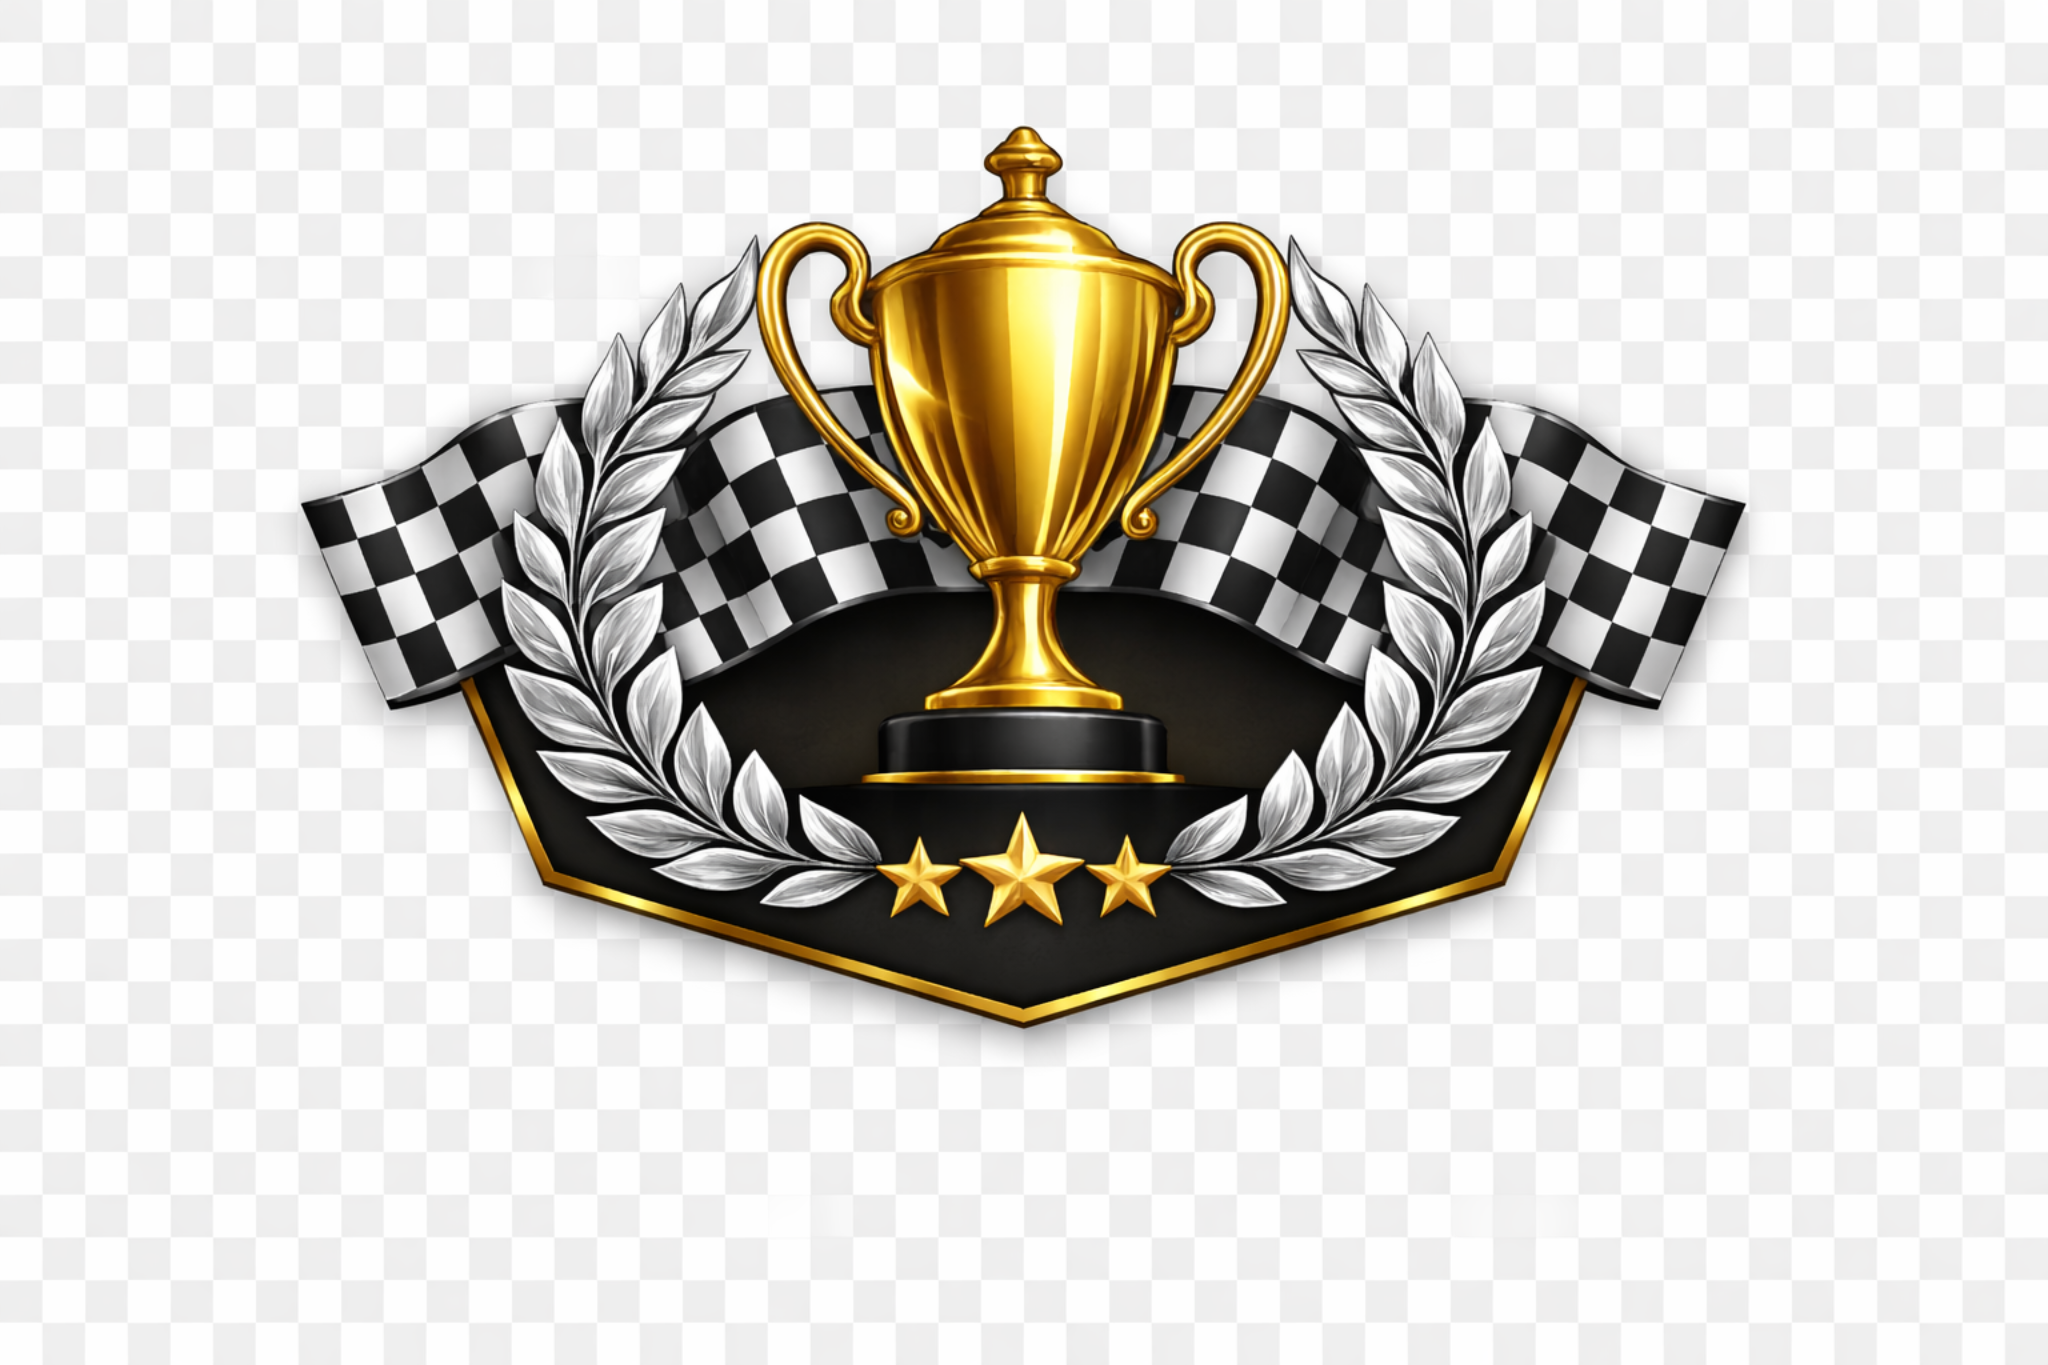
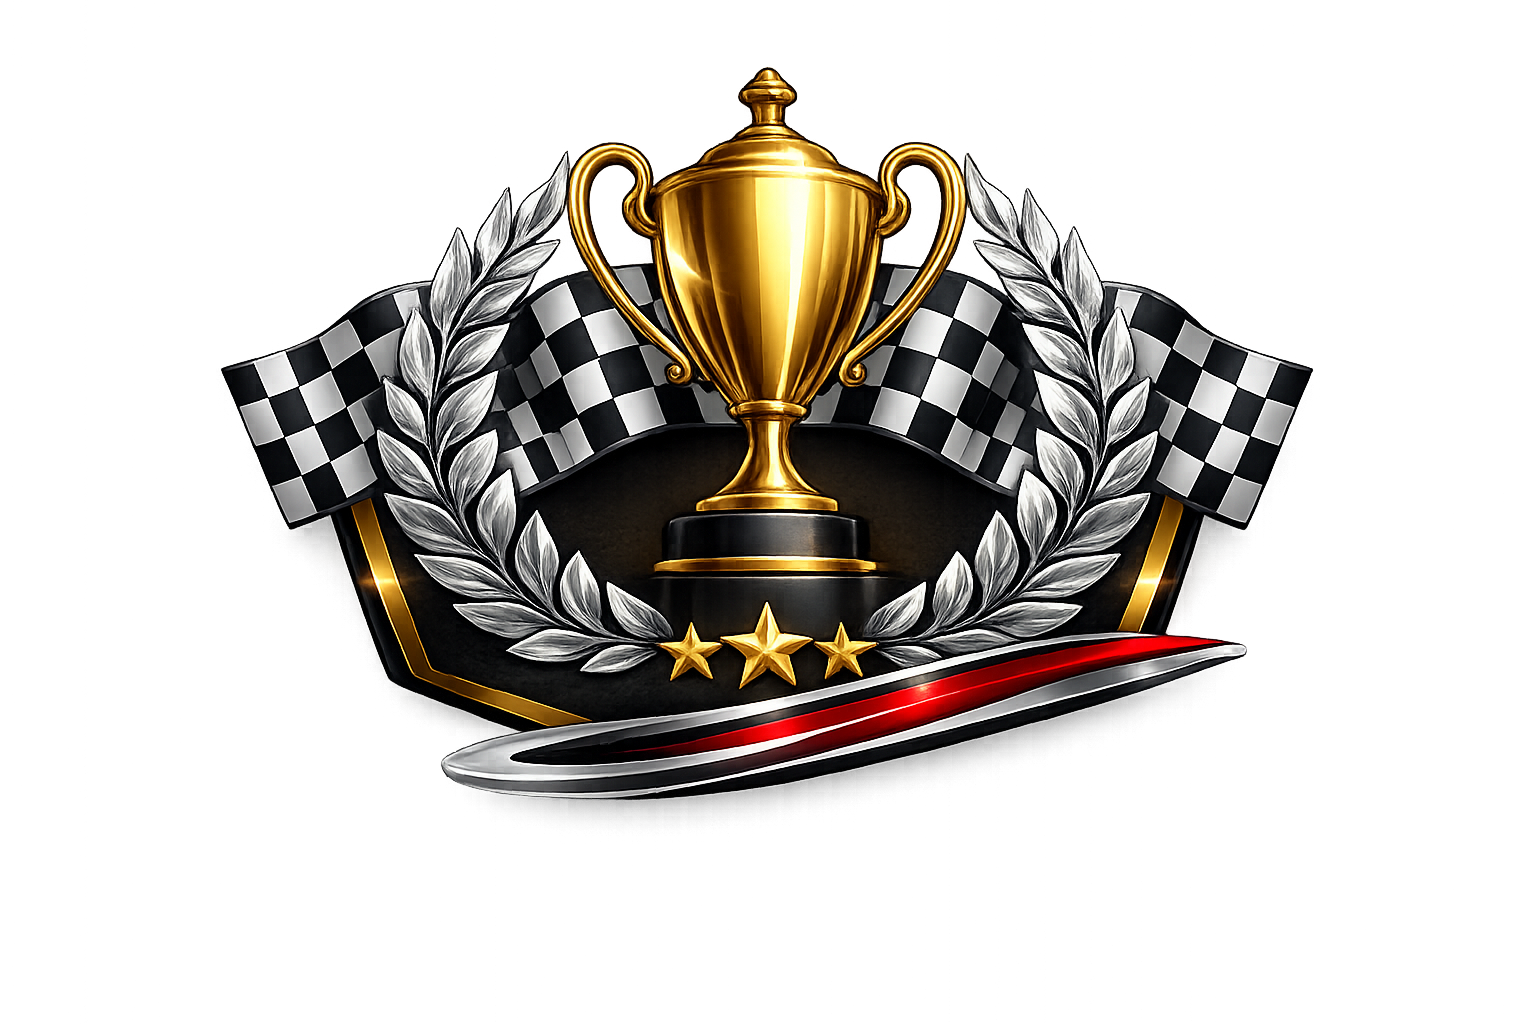
Add files via upload

Changed region(s): [[0.125, 0.0625, 0.875, 0.8125]]

diff --git a/assets/js/pages/standings.js b/assets/js/pages/standings.js
@@ -1,22 +1,34 @@
 
-function applyDriverPointsOverride(standings) {
+function getDriverBasePoints(entry) {
   const override = window.RCC_STANDINGS_OVERRIDE?.driverPoints;
-  if (!override) return standings;
-  return standings
+  if (!override) return 0;
+  return Number.isFinite(override[entry.driverName])
+    ? override[entry.driverName]
+    : (override[entry.driverName?.split(' / ')[0]?.trim()] ?? 0);
+}
+
+function getTeamBasePoints(entry) {
+  const override = window.RCC_STANDINGS_OVERRIDE?.teamPoints;
+  if (!override) return 0;
+  return Number.isFinite(override[entry.teamName]) ? override[entry.teamName] : 0;
+}
+
+function mergeCorrectedDriverStandings(baseStandings, incrementalStandings) {
+  const incrementalById = new Map((incrementalStandings || []).map((entry) => [entry.driverId, entry]));
+  return (baseStandings || [])
     .map((entry) => ({
       ...entry,
-      points: Number.isFinite(override[entry.driverName]) ? override[entry.driverName] : (override[entry.driverName?.split(' / ')[0]?.trim()] ?? entry.points)
+      points: getDriverBasePoints(entry) + (incrementalById.get(entry.driverId)?.points || 0)
     }))
     .sort((a, b) => b.points - a.points || a.driverName.localeCompare(b.driverName, 'de'));
 }
 
-function applyTeamPointsOverride(standings) {
-  const override = window.RCC_STANDINGS_OVERRIDE?.teamPoints;
-  if (!override) return standings;
-  return standings
+function mergeCorrectedTeamStandings(baseStandings, incrementalStandings) {
+  const incrementalByTeam = new Map((incrementalStandings || []).map((entry) => [entry.teamName, entry]));
+  return (baseStandings || [])
     .map((entry) => ({
       ...entry,
-      points: Number.isFinite(override[entry.teamName]) ? override[entry.teamName] : entry.points
+      points: getTeamBasePoints(entry) + (incrementalByTeam.get(entry.teamName)?.points || 0)
     }))
     .sort((a, b) => b.points - a.points || a.teamName.localeCompare(b.teamName, 'de'));
 }
@@ -95,8 +107,8 @@ function renderTeamStandings(standings) {
 function updateStandingsMeta(currentSeason, driverCount, teamCount) {
   const subtitles = document.querySelectorAll('.page-subtitle');
   const seasonLabel = currentSeason?.name ? `Saison ${currentSeason.name}` : 'Alle verfügbaren Daten';
-  if (subtitles[0]) subtitles[0].textContent = `${seasonLabel} · automatische Wertung aus den veröffentlichten Rennergebnissen.`;
-  if (subtitles[1]) subtitles[1].textContent = `${seasonLabel} · automatische Wertung aus den veröffentlichten Rennergebnissen.`;
+  if (subtitles[0]) subtitles[0].textContent = `${seasonLabel} · automatische Wertung aus korrigiertem Saisonstand der laufenden Saison + neuen veröffentlichten Rennergebnissen.`;
+  if (subtitles[1]) subtitles[1].textContent = `${seasonLabel} · automatische Wertung aus korrigiertem Saisonstand der laufenden Saison + neuen veröffentlichten Rennergebnissen.`;
 
   const tableHeaders = document.querySelectorAll('.table-header .muted');
   if (tableHeaders[0]) tableHeaders[0].textContent = `${driverCount} Fahrer`;
@@ -115,13 +127,25 @@ async function loadStandingsPage() {
 
     const completedRaces = races.filter((race) => race.status === 'completed').sort((a, b) => a.round_number - b.round_number);
     const resolver = window.RCCDriverContext.createAssignmentResolver({ drivers, races, assignments });
-    const currentStandings = window.RCCData.buildStandings({ drivers, races, raceResults, resolver });
+
+    const fullStandings = window.RCCData.buildStandings({ drivers, races, raceResults, resolver });
+    const overriddenRaceNames = new Set(window.RCC_STATIC_RESULTS_14?.races || []);
+    const incrementalRaces = completedRaces.filter((race) => !overriddenRaceNames.has(race.grand_prix_name));
+    const incrementalStandings = window.RCCData.buildStandings({ drivers, races: incrementalRaces, raceResults, resolver });
+
     const previousRaces = completedRaces.slice(0, -1);
-    const previousStandings = window.RCCData.buildStandings({ drivers, races: previousRaces, raceResults, resolver });
+    const previousIncrementalRaces = previousRaces.filter((race) => !overriddenRaceNames.has(race.grand_prix_name));
+    const previousBaseStandings = window.RCCData.buildStandings({ drivers, races: previousRaces, raceResults, resolver });
+    const previousIncrementalStandings = window.RCCData.buildStandings({ drivers, races: previousIncrementalRaces, raceResults, resolver });
 
     const hasPreviousRace = previousRaces.length > 0;
-    const driverStandings = withDriverTrends(applyDriverPointsOverride(currentStandings.driverStandings), previousStandings.driverStandings, hasPreviousRace);
-    const teamStandings = withTeamTrends(applyTeamPointsOverride(currentStandings.teamStandings), previousStandings.teamStandings, hasPreviousRace);
+    const correctedCurrentDrivers = mergeCorrectedDriverStandings(fullStandings.driverStandings, incrementalStandings.driverStandings);
+    const correctedPreviousDrivers = mergeCorrectedDriverStandings(previousBaseStandings.driverStandings, previousIncrementalStandings.driverStandings);
+    const correctedCurrentTeams = mergeCorrectedTeamStandings(fullStandings.teamStandings, incrementalStandings.teamStandings);
+    const correctedPreviousTeams = mergeCorrectedTeamStandings(previousBaseStandings.teamStandings, previousIncrementalStandings.teamStandings);
+
+    const driverStandings = withDriverTrends(correctedCurrentDrivers, correctedPreviousDrivers, hasPreviousRace);
+    const teamStandings = withTeamTrends(correctedCurrentTeams, correctedPreviousTeams, hasPreviousRace);
     renderDriverStandings(driverStandings);
     renderTeamStandings(teamStandings);
     updateStandingsMeta(currentSeason, driverStandings.length, teamStandings.length);

diff --git a/assets/js/data/results-override-season14.js b/assets/js/data/results-override-season14.js
@@ -1,0 +1,27 @@
+window.RCC_STATIC_RESULTS_14 = {
+  seasonKey: "season14",
+  seasonLabel: 'Saison 14',
+  races: ['Kanada','Katar','Monza','Japan','Spanien','Saudi Arabien','Niederlande','Bahrain','Austin','Monaco','Brasilien','Ungarn','Belgien','Mexico'],
+  rows: [
+    { driver: 'Jannick / Airfle_x', points: [15,4,12,0,13,8,0,5,0,0,0,2,0,0], classes: ['', '', '', '', 'player', '', '', 'player', 'bot', 'bot', 'bot', 'bot', 'bot', 'bot'] },
+    { driver: 'Tom / Delled_Rel', points: [0,0,6,6,2,7,10,0,2,8,0,0,0,0], classes: ['', '', '', '', '', 'player', '', '', 'bot', 'bot', '', '', '', ''] },
+    { driver: 'Philipp / Monst3rowhite', points: [0,8,2,2,25,4,12,18,10,18,4,0,12,0], classes: ['bot', '', '', '', '', '', '', '', 'bot', 'bot', '', '', '', ''] },
+    { driver: 'Basti / BxBeast^^', points: [0,0,0,0,0,2,0,0,4,0,0,0,0,0], classes: ['bot','','','', 'bot','bot','','','','','bot','bot','bot','bot'] },
+    { driver: 'Lewis Hamilton', points: [1,0,0,1,0,0,1,0,8,15,0,0,0,1], classes: ['bot','','','bot','','','bot','','','', '', '', '', ''] },
+    { driver: 'Charles Leclerc', points: [0,0,0,0,0,0,0,0,0,10,0,0,0,0], classes: ['bot','','','','','','','','','','','','',''] },
+    { driver: 'Diogo / zocker-tidi', points: [0,0,1,4,8,1,0,0,0,0,0,0,0,0], classes: ['bot','bot','', '', 'bot','bot','bot','bot','bot','bot','bot','bot','bot','bot'] },
+    { driver: 'Dennis / Social_Abyss', points: [6,6,11,8,6,10,18,6,0,3,2,12,2,2], classes: ['', '', 'player', '', '', '', '', '', '', 'player', '', '', '', ''] },
+    { driver: 'Davide / Ratcher7575', points: [10,15,25,18,15,18,8,8,0,0,8,4,1,10], classes: ['', '', '', '', '', '', '', '', '', '', '', '', '', ''] },
+    { driver: 'Franco Colapinto', points: [0,2,4,0,0,0,0,0,0,4,0,0,0,0], classes: ['', '', '', '', '', '', '', '', '', '', '', '', '', ''] },
+    { driver: 'Tizi / ICExTizi', points: [0,0,0,0,0,0,0,0,1,0,0,0,10,26], classes: ['bot','bot','bot','bot','bot','bot','bot','bot','bot','bot','bot','bot','', 'player'] },
+    { driver: 'Robin / brixx71', points: [2,0,0,0,0,0,2,0,0,1,0,0,15,4], classes: ['bot','','','bot','','','bot','','bot','','','','',''] },
+    { driver: 'Richard / Gxdly_21', points: [18,13,0,25,10,25,0,15,15,0,15,6,25,12], classes: ['', 'player', '', '', '', '', 'player', '', '', '', '', '', '', ''] },
+    { driver: 'Nils / xXYouGetCarrydXx', points: [26,10,18,12,18,15,4,10,13,12,25,10,4,15], classes: ['player', '', '', '', '', '', '', '', 'player', '', '', '', '', ''] },
+    { driver: 'Alessandro / Ale23andr0_', points: [8,25,8,16,0,0,15,12,18,0,13,25,0,0], classes: ['', '', '', 'player', 'bot', 'bot', '', '', '', '', 'player', '', 'player', ''] },
+    { driver: 'Mo / My-tires-r-gone', points: [12,18,15,10,4,12,25,25,25,25,18,18,8,8], classes: ['', '', '', '', '', '', '', '', '', '', '', '', '', ''] },
+    { driver: 'Maxim / TERMINATOR', points: [0,1,0,0,1,0,6,1,0,6,0,1,0,0], classes: ['bot','bot','bot','bot','','','', '', 'bot','bot','','', '', ''] },
+    { driver: 'Jakob / Ja_KOB', points: [4,0,0,0,0,0,0,2,6,0,1,0,0,0], classes: ['bot','bot','','','','','','','','','', '', '', ''] },
+    { driver: 'Aaron / Fabiyoloboi', points: [0,0,0,0,0,0,0,0,0,0,6,8,6,6], classes: ['bot','bot','bot','bot','bot','bot','bot','bot','bot','bot','','','',''] },
+    { driver: 'Adnan / Bigarlz', points: [0,0,0,0,0,0,0,0,0,0,10,16,18,18], classes: ['bot','bot','bot','bot','bot','bot','bot','bot','bot','bot','','player','',''] }
+  ]
+};

diff --git a/assets/js/pages/results.js b/assets/js/pages/results.js
@@ -1,7 +1,7 @@
 let trendChartInstance = null;
 
 function renderStaticResultsOverride() {
-  const data = window.RCC_STATIC_RESULTS_15;
+  const data = window.RCC_STATIC_RESULTS_14;
   if (!data) return false;
   const wrap = document.getElementById('results-matrix-wrap');
   const labelEl = document.getElementById('results-matrix-label');
@@ -24,12 +24,10 @@ function renderStaticResultsOverride() {
     const cells = row.points.map((value, index) => {
       const tone = row.classes?.[index] || '';
       const classes = ['results-points-cell'];
-      const chips = [];
       const valueClasses = ['results-points-value'];
       if (tone === 'bot') valueClasses.push('results-points-value--bot');
       if (tone === 'player') valueClasses.push('results-points-value--fl-chip');
-      if (tone === 'player') chips.push('<span class="results-cell-chip results-cell-chip--fl">FL</span>');
-      return `<td class="${classes.join(' ')}"><div class="results-cell-stack"><span class="${valueClasses.join(' ')}">${value}</span>${chips.length ? `<span class="results-cell-chips">${chips.join('')}</span>` : ''}</div></td>`;
+      return `<td class="${classes.join(' ')}"><div class="results-cell-stack"><span class="${valueClasses.join(' ')}">${value}</span></div></td>`;
     }).join('');
 
     return `
@@ -146,13 +144,11 @@ function renderMatrix(container, labelEl, matrixData) {
   const body = rows.map((entry) => {
     const cells = entry.raceCells.map((cell) => {
       const classes = ['results-points-cell'];
-      const chips = [];
       const valueClasses = ['results-points-value'];
       if (cell.isBot) valueClasses.push('results-points-value--bot');
       if (cell.hasFastestLapBonus) valueClasses.push('results-points-value--fl-chip');
-      if (cell.hasFastestLapBonus) chips.push('<span class="results-cell-chip results-cell-chip--fl">FL</span>');
       const cellValue = `<span class="${valueClasses.join(' ')}">${cell.points}</span>`;
-      return `<td class="${classes.join(' ')}" title="Auto: ${window.escapeHtml(cell.carName)}"><div class="results-cell-stack">${cellValue}${chips.length ? `<span class="results-cell-chips">${chips.join('')}</span>` : ''}</div></td>`;
+      return `<td class="${classes.join(' ')}" title="Auto: ${window.escapeHtml(cell.carName)}"><div class="results-cell-stack">${cellValue}</div></td>`;
     }).join('');
 
     return `

diff --git a/assets/css/style.css b/assets/css/style.css
@@ -2154,10 +2154,6 @@ body.hof-page {
   box-shadow: inset 0 1px 0 rgba(255,255,255,0.05);
 }
 
-.results-cell-chip--bot {
-  display: none;
-}
-
 .results-cell-chip--fl {
   background: rgba(216, 164, 255, 0.16);
   color: #f3deff;

diff --git a/ergebnisse.html b/ergebnisse.html
@@ -58,7 +58,7 @@
   <script src="assets/js/layout.js"></script>
   <script src="assets/js/utils.js"></script>
   <script src="assets/js/app.js"></script>
-  <script src="assets/js/data/results-override-season15.js"></script>
+  <script src="assets/js/data/results-override-season14.js"></script>
   <script src="assets/js/pages/results.js"></script>
 </body>
 </html>

diff --git a/assets/js/data/standings-override-season14.js b/assets/js/data/standings-override-season14.js
@@ -1,4 +1,5 @@
 window.RCC_STANDINGS_OVERRIDE = {
+  seasonKey: "season14",
   driverPoints: {
     'Mo': 223,
     'Nils': 192,